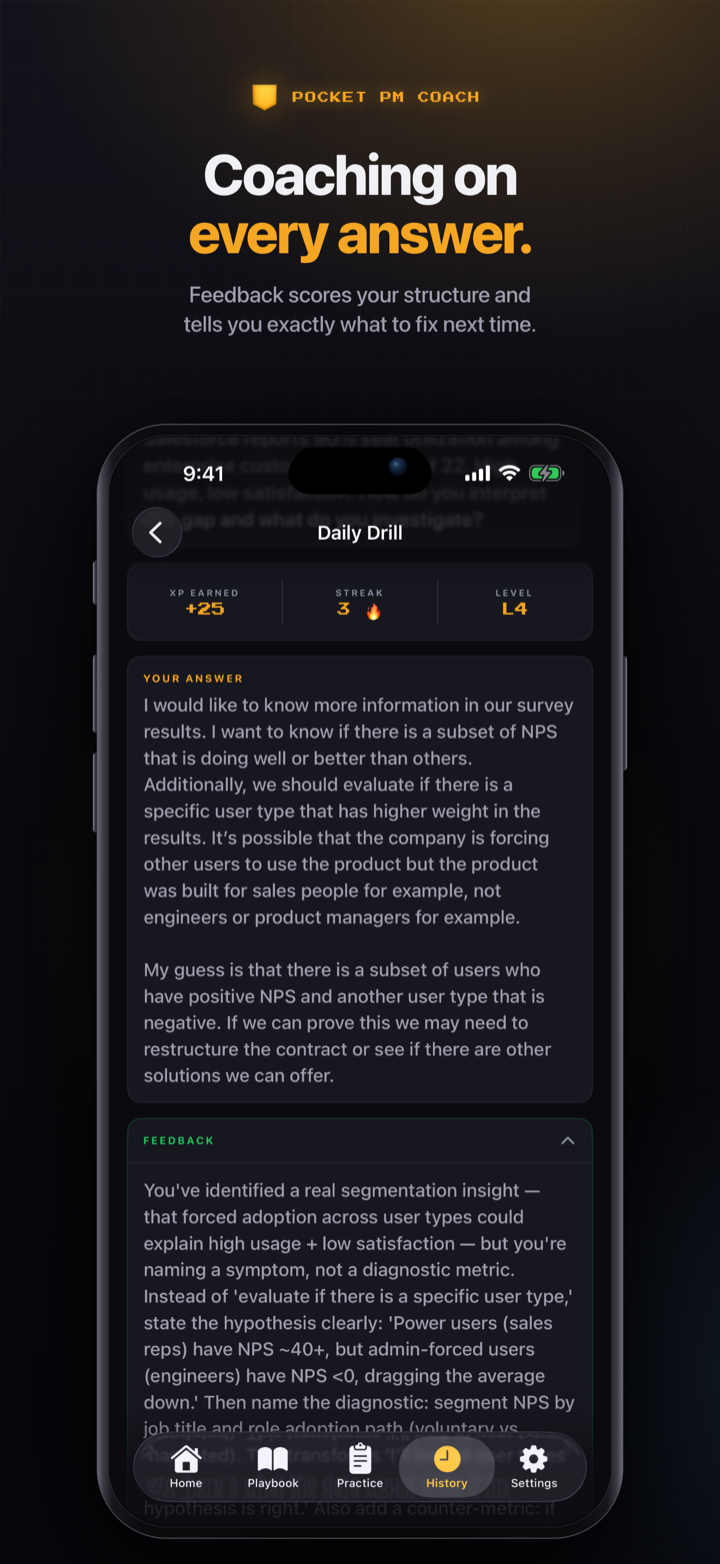
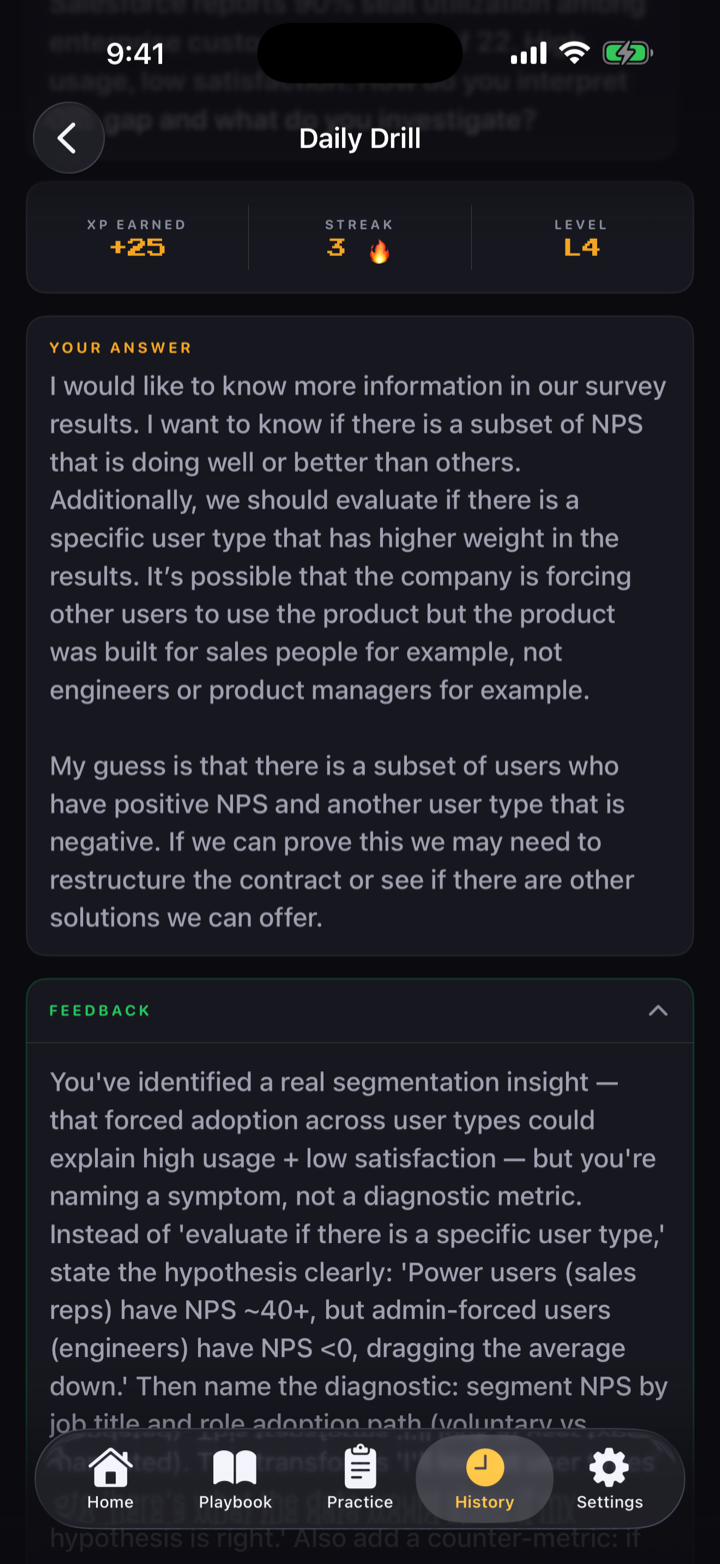
Restore the landing carousel to simulator phone captures.
App Store marketing posters fight the hero copy at carousel size; show the product UI in phone chrome instead and keep marketing frames for Connect only.

diff --git a/index.html b/index.html
@@ -152,9 +152,9 @@
   .ticker-item::before { content: '★ '; }
   @keyframes tick { 0% { transform: translateX(0); } 100% { transform: translateX(-50%); } }
 
-  /* PHONES — App Store marketing screenshots carousel */
-  .phones { position: relative; z-index: 1; padding: 48px 0 40px; }
-  .carousel-viewport { position: relative; max-width: 780px; margin: 0 auto; overflow: hidden; }
+  /* PHONES — simulator captures in phone chrome */
+  .phones { position: relative; z-index: 1; padding: 60px 0 40px; }
+  .carousel-viewport { position: relative; max-width: 560px; margin: 0 auto; overflow: hidden; }
   .carousel-track-wrap {
     display: flex;
     overflow-x: auto;
@@ -162,24 +162,23 @@
     -webkit-overflow-scrolling: touch;
     scrollbar-width: none;
     gap: 20px;
-    padding: 12px calc(50% - 140px);
+    padding: 20px calc(50% - 130px);
     box-sizing: border-box;
   }
   .carousel-track-wrap::-webkit-scrollbar { display: none; }
   .phone-slide {
-    flex: 0 0 280px;
+    flex: 0 0 260px;
     scroll-snap-align: center;
-    border-radius: 18px;
-    border: 1px solid rgba(245,166,35,.22);
+    border-radius: 36px;
+    border: 2px solid rgba(245,166,35,.3);
     overflow: hidden;
     background: #0A0A0F;
-    box-shadow: 0 24px 56px rgba(0,0,0,.65), 0 0 32px rgba(245,166,35,.08);
+    box-shadow: 0 24px 56px rgba(0,0,0,.6), 0 0 32px rgba(245,166,35,.08);
   }
   .phone-slide img {
     width: 100%;
     height: auto;
     display: block;
-    vertical-align: top;
   }
 
   /* Arrows */
@@ -193,18 +192,18 @@
     z-index: 20;
   }
   .carousel-arrow:hover { background: rgba(245,166,35,.28); }
-  .carousel-prev { left: 8px; }
-  .carousel-next { right: 8px; }
+  .carousel-prev { left: 4px; }
+  .carousel-next { right: 4px; }
 
   /* Dots */
-  .carousel-dots { display: flex; justify-content: center; gap: 8px; margin-top: 20px; }
+  .carousel-dots { display: flex; justify-content: center; gap: 8px; margin-top: 24px; }
   .carousel-dot { width: 7px; height: 7px; border-radius: 50%; background: rgba(245,166,35,.22); border: none; cursor: pointer; transition: background .25s, transform .25s; padding: 0; }
   .carousel-dot.active { background: var(--amber); transform: scale(1.4); }
 
   @media (max-width: 600px) {
     .carousel-viewport { max-width: 100%; }
-    .carousel-track-wrap { padding: 12px calc(50% - 120px); gap: 14px; }
-    .phone-slide { flex: 0 0 240px; }
+    .carousel-track-wrap { padding: 20px calc(50% - 115px); gap: 14px; }
+    .phone-slide { flex: 0 0 230px; }
     .carousel-arrow { display: none; }
   }
 
@@ -634,11 +633,11 @@
 <div class="phones reveal" id="phones">
   <div class="carousel-viewport">
     <div class="carousel-track-wrap" id="carouselTrack">
-      <div class="phone-slide" data-idx="0"><img src="screenshots/01-daily-drill.png" alt="One PM question every day, daily drills" width="720" height="1564" loading="eager"></div>
-      <div class="phone-slide" data-idx="1"><img src="screenshots/02-leaderboard.png" alt="Climb the leaderboard" width="720" height="1564" loading="lazy"></div>
-      <div class="phone-slide" data-idx="2"><img src="screenshots/03-feedback.png" alt="Coaching on every answer" width="720" height="1564" loading="lazy"></div>
-      <div class="phone-slide" data-idx="3"><img src="screenshots/04-practice.png" alt="Run a full mock on demand" width="720" height="1564" loading="lazy"></div>
-      <div class="phone-slide" data-idx="4"><img src="screenshots/05-playbook.png" alt="Learn the frameworks cold" width="720" height="1564" loading="lazy"></div>
+      <div class="phone-slide" data-idx="0"><img src="screenshots/01-daily-drill.png" alt="Home — daily drill completed" width="720" height="1565" loading="eager"></div>
+      <div class="phone-slide" data-idx="1"><img src="screenshots/02-leaderboard.png" alt="Daily leaderboard" width="720" height="1564" loading="lazy"></div>
+      <div class="phone-slide" data-idx="2"><img src="screenshots/03-feedback.png" alt="AI coaching feedback on an answer" width="720" height="1564" loading="lazy"></div>
+      <div class="phone-slide" data-idx="3"><img src="screenshots/04-practice.png" alt="Full mock interview practice" width="720" height="1564" loading="lazy"></div>
+      <div class="phone-slide" data-idx="4"><img src="screenshots/05-playbook.png" alt="Playbook learning cards" width="720" height="1564" loading="lazy"></div>
     </div>
     <button class="carousel-arrow carousel-prev" onclick="carouselPrev()" aria-label="Previous">&#8249;</button>
     <button class="carousel-arrow carousel-next" onclick="carouselNext()" aria-label="Next">&#8250;</button>
